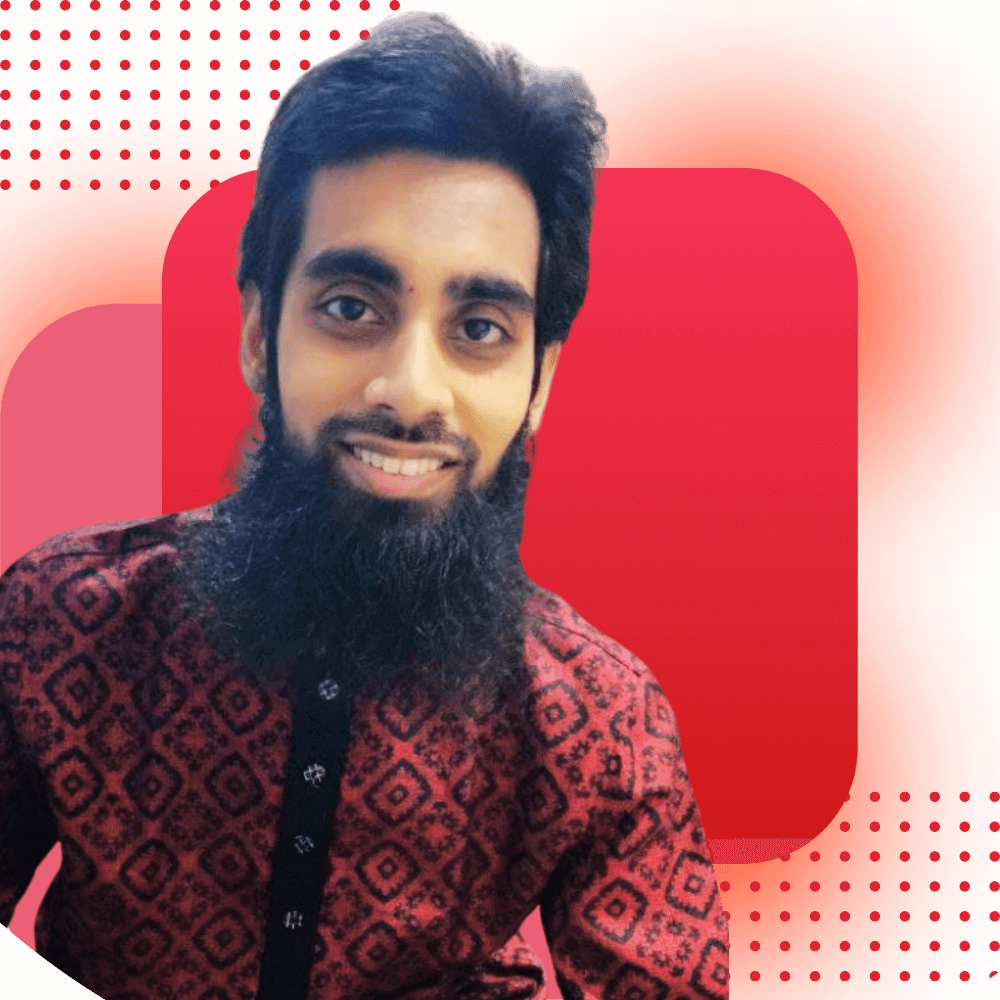
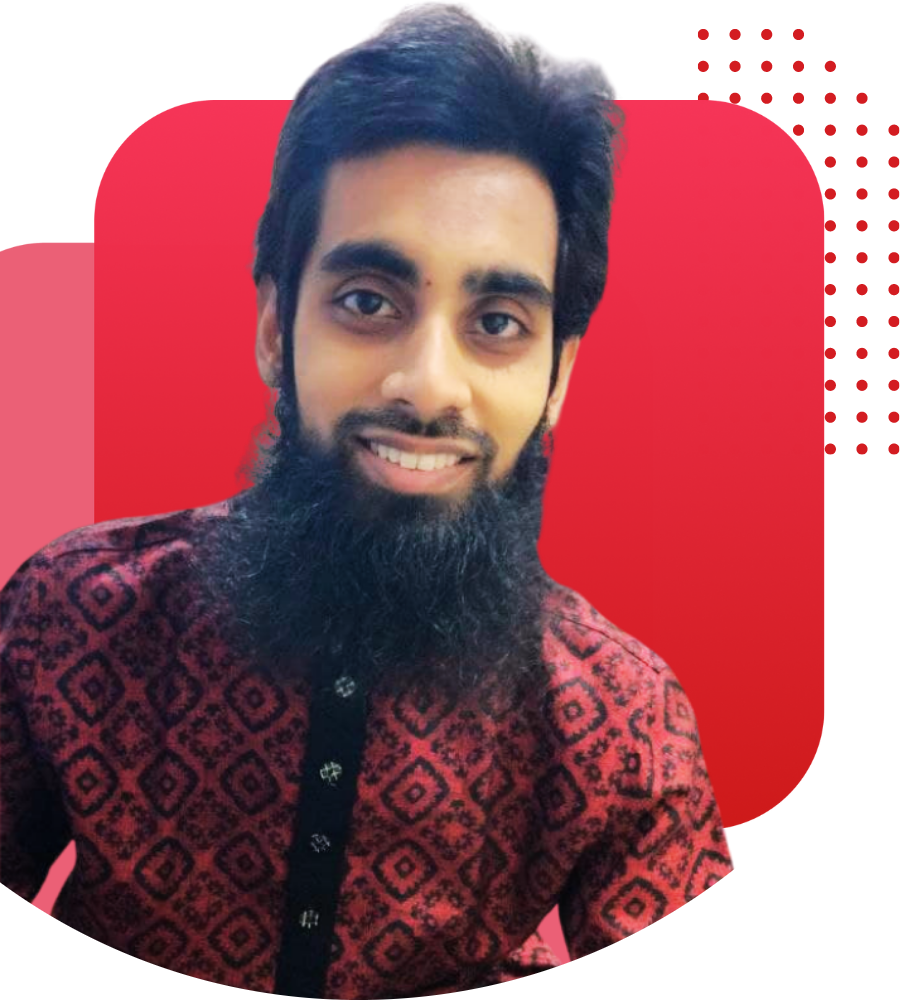
About Section Done

diff --git a/index.html b/index.html
@@ -54,15 +54,19 @@
     <!-- About Section Starts -->
     <section id="about-section">
         <div class="container">
-            <div class="about-image">
-                <img src="images/" alt="Ibnu Food CEO Ibnu Mahtab">
-            </div>
-            <div class="about-title">
-                <h2>About Me</h2>
-                <p>The only time to eat diet food is while you're waiting for the steak to cook." "Laughter is brightest
-                    where food is best." "Life is a combination of magic and pasta." "It's difficult to think anything
-                    but pleasant thoughts while eating a homegrown tomato.</p>
-                <a href="#">Contact Me</a>
+            <div class="about-items flex-display">
+                <div class="about-image flex-items ">
+                    <img src="images/ibnumahtab.png" alt="Ibnu Food CEO Ibnu Mahtab">
+                </div>
+                <div class="about-title flex-items ">
+                    <h2>About Me</h2>
+                    <p>The only time to eat diet food is while you're waiting for the steak to cook." "Laughter is
+                        brightest
+                        where food is best." "Life is a combination of magic and pasta." "It's difficult to think
+                        anything
+                        but pleasant thoughts while eating a homegrown tomato.</p>
+                    <a class="btn" href="#">Contact Me</a>
+                </div>
             </div>
         </div>
     </section>

diff --git a/style.css b/style.css
@@ -95,7 +95,7 @@ input:focus {
     margin-top: 20px;
     padding: 15px 25px;
     background-image: linear-gradient(to right, #d9212b, #8f161c);
-    border-radius: 30px;
+    border-radius: 40px;
 }
 
 /* --> Menu Section <-- */
@@ -122,7 +122,14 @@ input:focus {
     color: #d9212b;
 }
 
+/* --> About Section <-- */
+#about-section {
+    background: url('images/ibnufood-about-bg.jpg') no-repeat bottom/cover;
+}
 
+.about-title {
+    padding: 0 40px 0 120px;
+}
 
 
 
